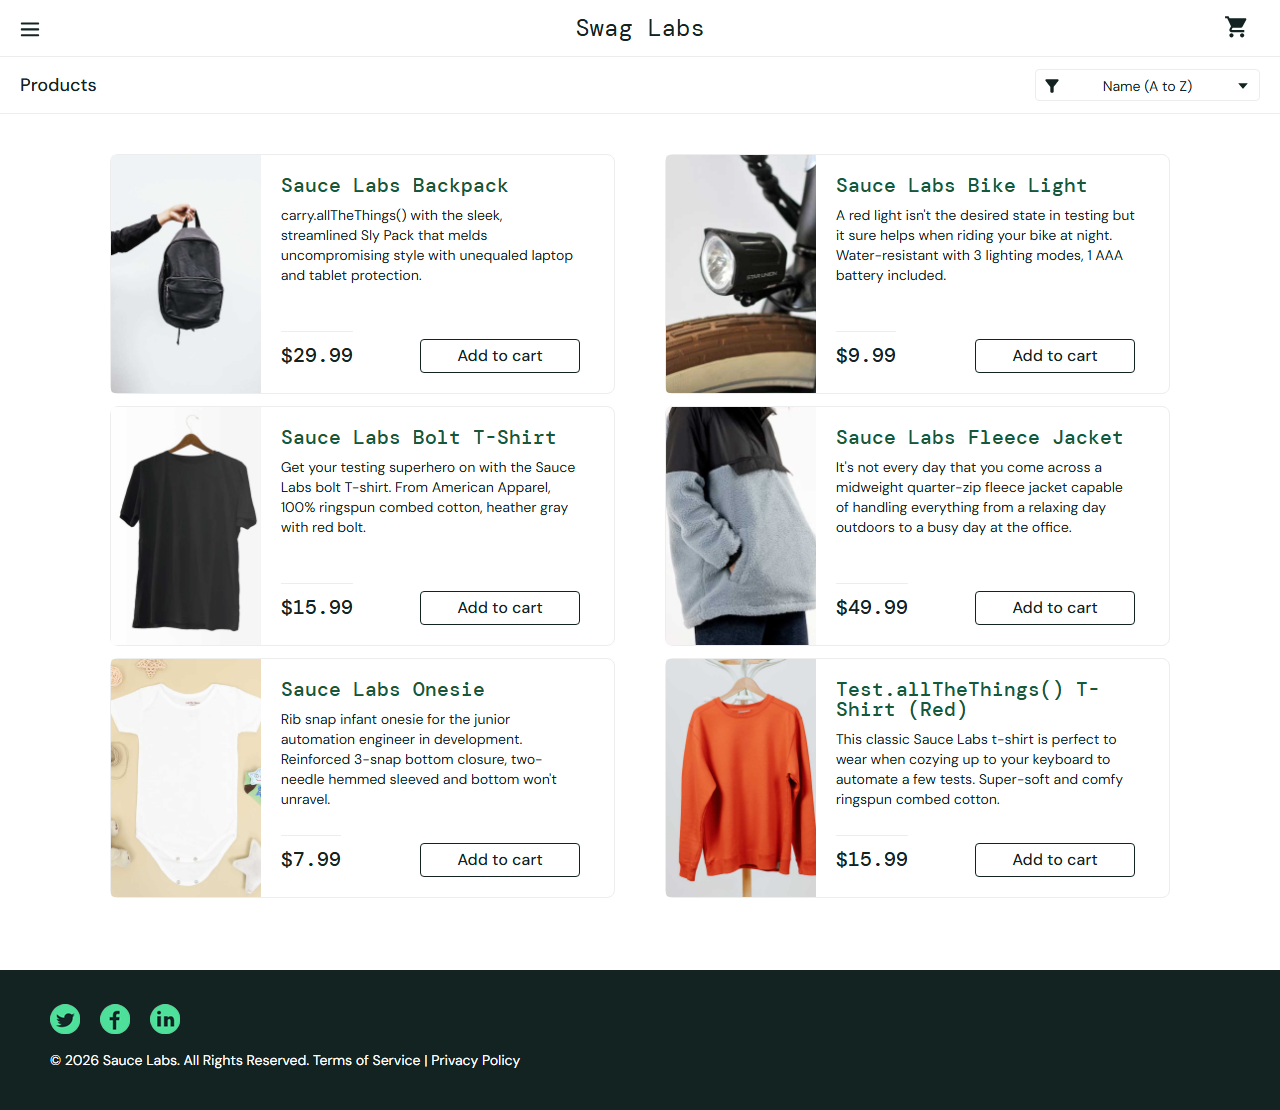
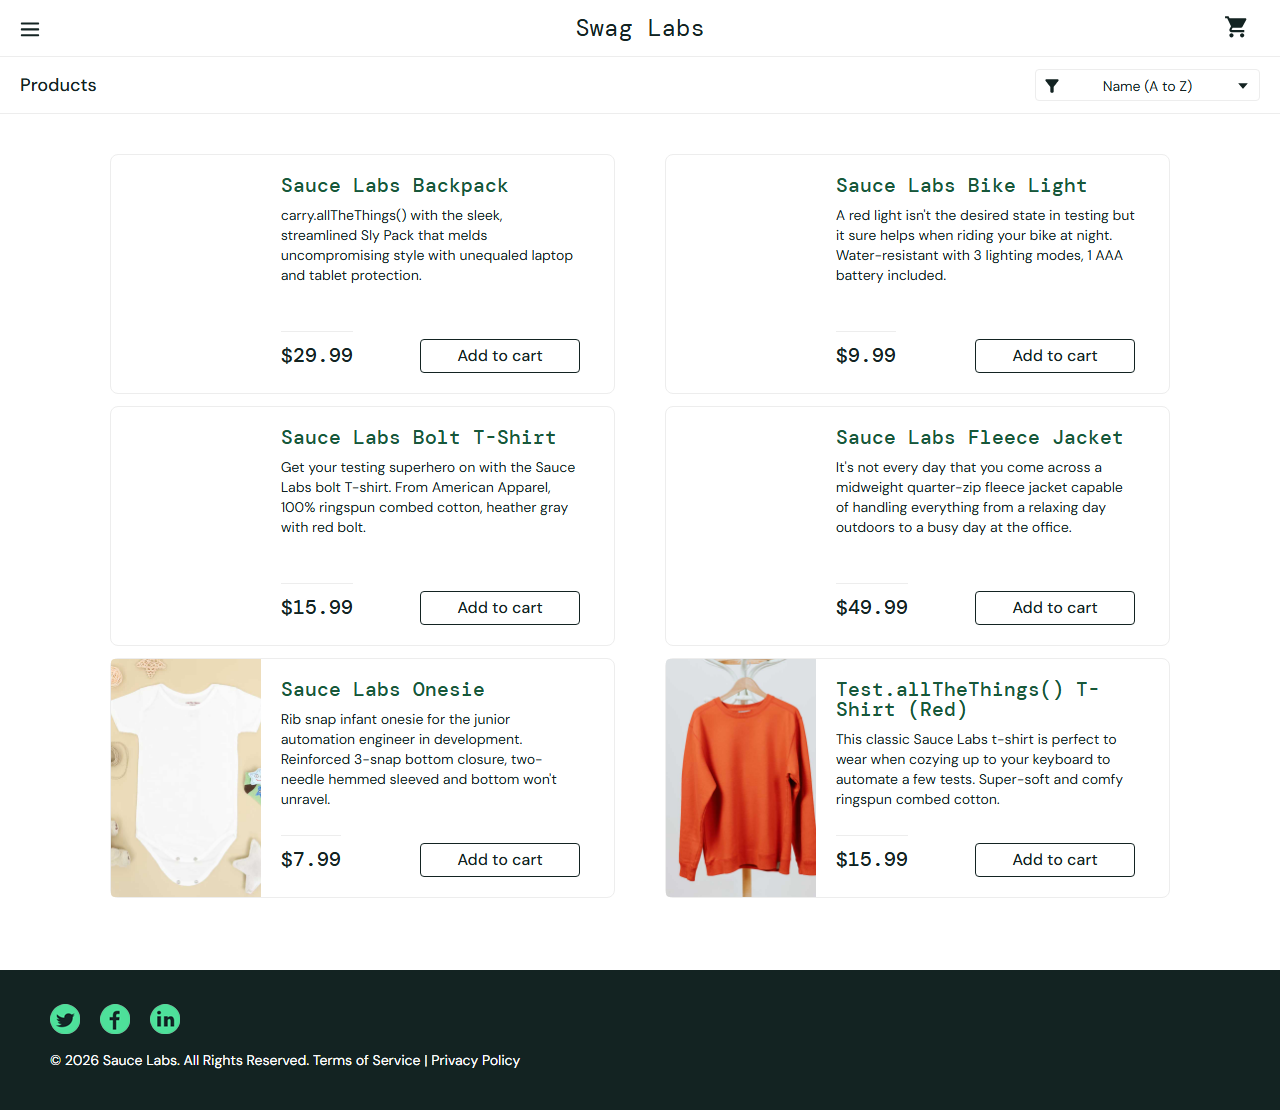
feat: update verifyButtonChangedToRemove to support array and loop check

diff --git a/src/pages/InventoryPage.ts b/src/pages/InventoryPage.ts
@@ -1,0 +1,51 @@
+import { type Page, type Locator, expect } from '@playwright/test';
+
+export class InventoryPage {
+  readonly page: Page;
+  readonly cartBadge: Locator;
+
+  constructor(page: Page) {
+    this.page = page;
+    this.cartBadge = page.locator('.shopping_cart_badge');
+  }
+
+  /**
+   * ฟังก์ชันดึง Locator ของปุ่มจัดการสินค้าแผ่นเดียวกัน (Reusable Dynamic Locator)
+   */
+  getProductButton(itemName: string): Locator {
+    // ใช้ได้ทั้งปุ่ม add-to-cart และ remove ของสินค้านั้นๆ บนหน้าเว็บ
+    return this.page.locator(`[data-test$="-${itemName}"]`);
+  }
+
+  /**
+   * ฟังก์ชันกลางสำหรับกดเพิ่มสินค้าเข้าตะกร้า
+   */
+  async addItemToCart(itemNames: string[]) {
+    for (const item of itemNames) {
+      const productButton = this.getProductButton(item);
+      await productButton.click();
+      console.log(`[POM] กดเพิ่มสินค้า: ${item} เข้าตะกร้าแล้ว`);
+    }
+  }
+
+  /**
+   * [🎯 ฟังก์ชันกลางที่เพิ่มใหม่] สำหรับตรวจสอบว่าปุ่มเปลี่ยนเป็นคำว่า Remove หรือยัง
+   * @param itemName ชื่อระบุสินค้าตัวเดียวกับที่กดแอด เช่น 'sauce-labs-backpack'
+   */
+  async verifyButtonChangedToRemove(itemNames: string[]) {
+    for (const item of itemNames) {
+      const productButton = this.getProductButton(item);
+      // วนลูปตรวจสอบว่าปุ่มของสินค้าทุกชิ้นในลิสต์ ต้องขึ้นคำว่า 'Remove'
+      await expect(productButton).toHaveText('Remove');
+      console.log(`[POM] ตรวจสอบสถานะ: ปุ่มของ ${item} เปลี่ยนเป็น 'Remove' ถูกต้อง`);
+    }
+  }
+
+  /**
+   * ฟังก์ชันกลางสำหรับตรวจสอบจำนวนสินค้าบนรถเข็น
+   */
+  async verifyCartBadgeCount(expectedCount: string) {
+    await expect(this.cartBadge).toHaveText(expectedCount);
+    console.log(`[POM] ตรวจสอบจำนวนรถเข็นถูกต้อง: มีสินค้าทั้งหมด ${expectedCount} ชิ้น`);
+  }
+}

diff --git a/tests/inventory&cart/TC004-inven-cart-add-item.spec.ts b/tests/inventory&cart/TC004-inven-cart-add-item.spec.ts
@@ -1,0 +1,38 @@
+import { test, expect } from '@playwright/test';
+import { LoginPage } from '../../src/pages/LoginPage'; 
+import { InventoryPage } from '../../src/pages/InventoryPage';
+
+test('Add Item', async ({ page }) => {
+
+  const loginPage = new LoginPage(page);
+  const inventoryPage = new InventoryPage(page);
+  const myShoppingList = [
+    'sauce-labs-backpack',
+    'sauce-labs-bike-light',
+    'sauce-labs-bolt-t-shirt'
+  ];
+  
+  // Login
+  await loginPage.goto();
+  await loginPage.login('standard_user', 'secret_sauce');
+  
+  // Check Home Page
+  await expect(page.locator('[data-test="primary-header"]')).toContainText('Swag Labs');
+
+  //Select Product
+  await inventoryPage.addItemToCart(myShoppingList);
+
+  //Check Cart Count
+  await inventoryPage.verifyCartBadgeCount(myShoppingList.length.toString());
+
+  //Check Button Add to cart change to Button Remove
+  await inventoryPage.verifyButtonChangedToRemove(myShoppingList);
+
+  //Screen Shot Test Result
+  await page.screenshot ({
+    path: 'test-result/screenshots/inventory-and-cart-add-item.png',
+    fullPage: true
+  });
+
+  console.log('✅ TC004_Add_Item_&_Cart Passed!!');
+});

diff --git a/tests/auth/TC003-login-invalid-password.spec.ts b/tests/auth/TC003-login-invalid-password.spec.ts
@@ -1,0 +1,28 @@
+import { test, expect } from '@playwright/test';
+
+// 1. ต้อง import คลาสเข้ามาใช้งานก่อน (ตรวจสอบ path ให้ถูกต้องตามโครงสร้างเครื่องของคุณ)
+import { LoginPage } from '../../src/pages/LoginPage'; 
+
+test('Login Fail (Invalid Password)', async ({ page }) => {
+  
+  // 2. เรียกใช้งานพิมพ์เขียว (New Instance) โดยส่งค่า page ของ Playwright เข้าไป
+  const loginPage = new LoginPage(page);
+  
+  //Open Website
+  await loginPage.goto();
+  
+  //Input username, password
+  await loginPage.login('secret_sauce', 'secret_sauce');
+  
+  //Checker Error Message
+  await expect(page.locator('[data-test="error"]')).toContainText('Epic sadface: Username and password do not match any user in this service');
+
+  //Screen Shot Test Result
+  await page.screenshot ({
+    path: 'test-result/screenshots/login-invalid-password.png',
+    fullPage: true
+  });
+
+  console.log('✅ TC003_Invalid_Login Passed!!');
+
+});

diff --git a/tests/auth/TC002-login-user-locked-out.spec.ts b/tests/auth/TC002-login-user-locked-out.spec.ts
@@ -23,6 +23,6 @@ test('Login Fail (user locked)', async ({ page }) => {
     fullPage: true
   });
 
-  console.log('✅ TC_Login_002 Passed!!');
+  console.log('✅ TC002_User_Locked_out Passed!!');
 
 });

diff --git a/tests/auth/TC001-login-normal-case.spec.ts b/tests/auth/TC001-login-normal-case.spec.ts
@@ -23,6 +23,6 @@ test('Login Success', async ({ page }) => {
     fullPage: true
   });
 
-  console.log('✅ TC_Login_001 Passed!!');
+  console.log('✅ TC001_Normal_User Passed!!');
 
 });
